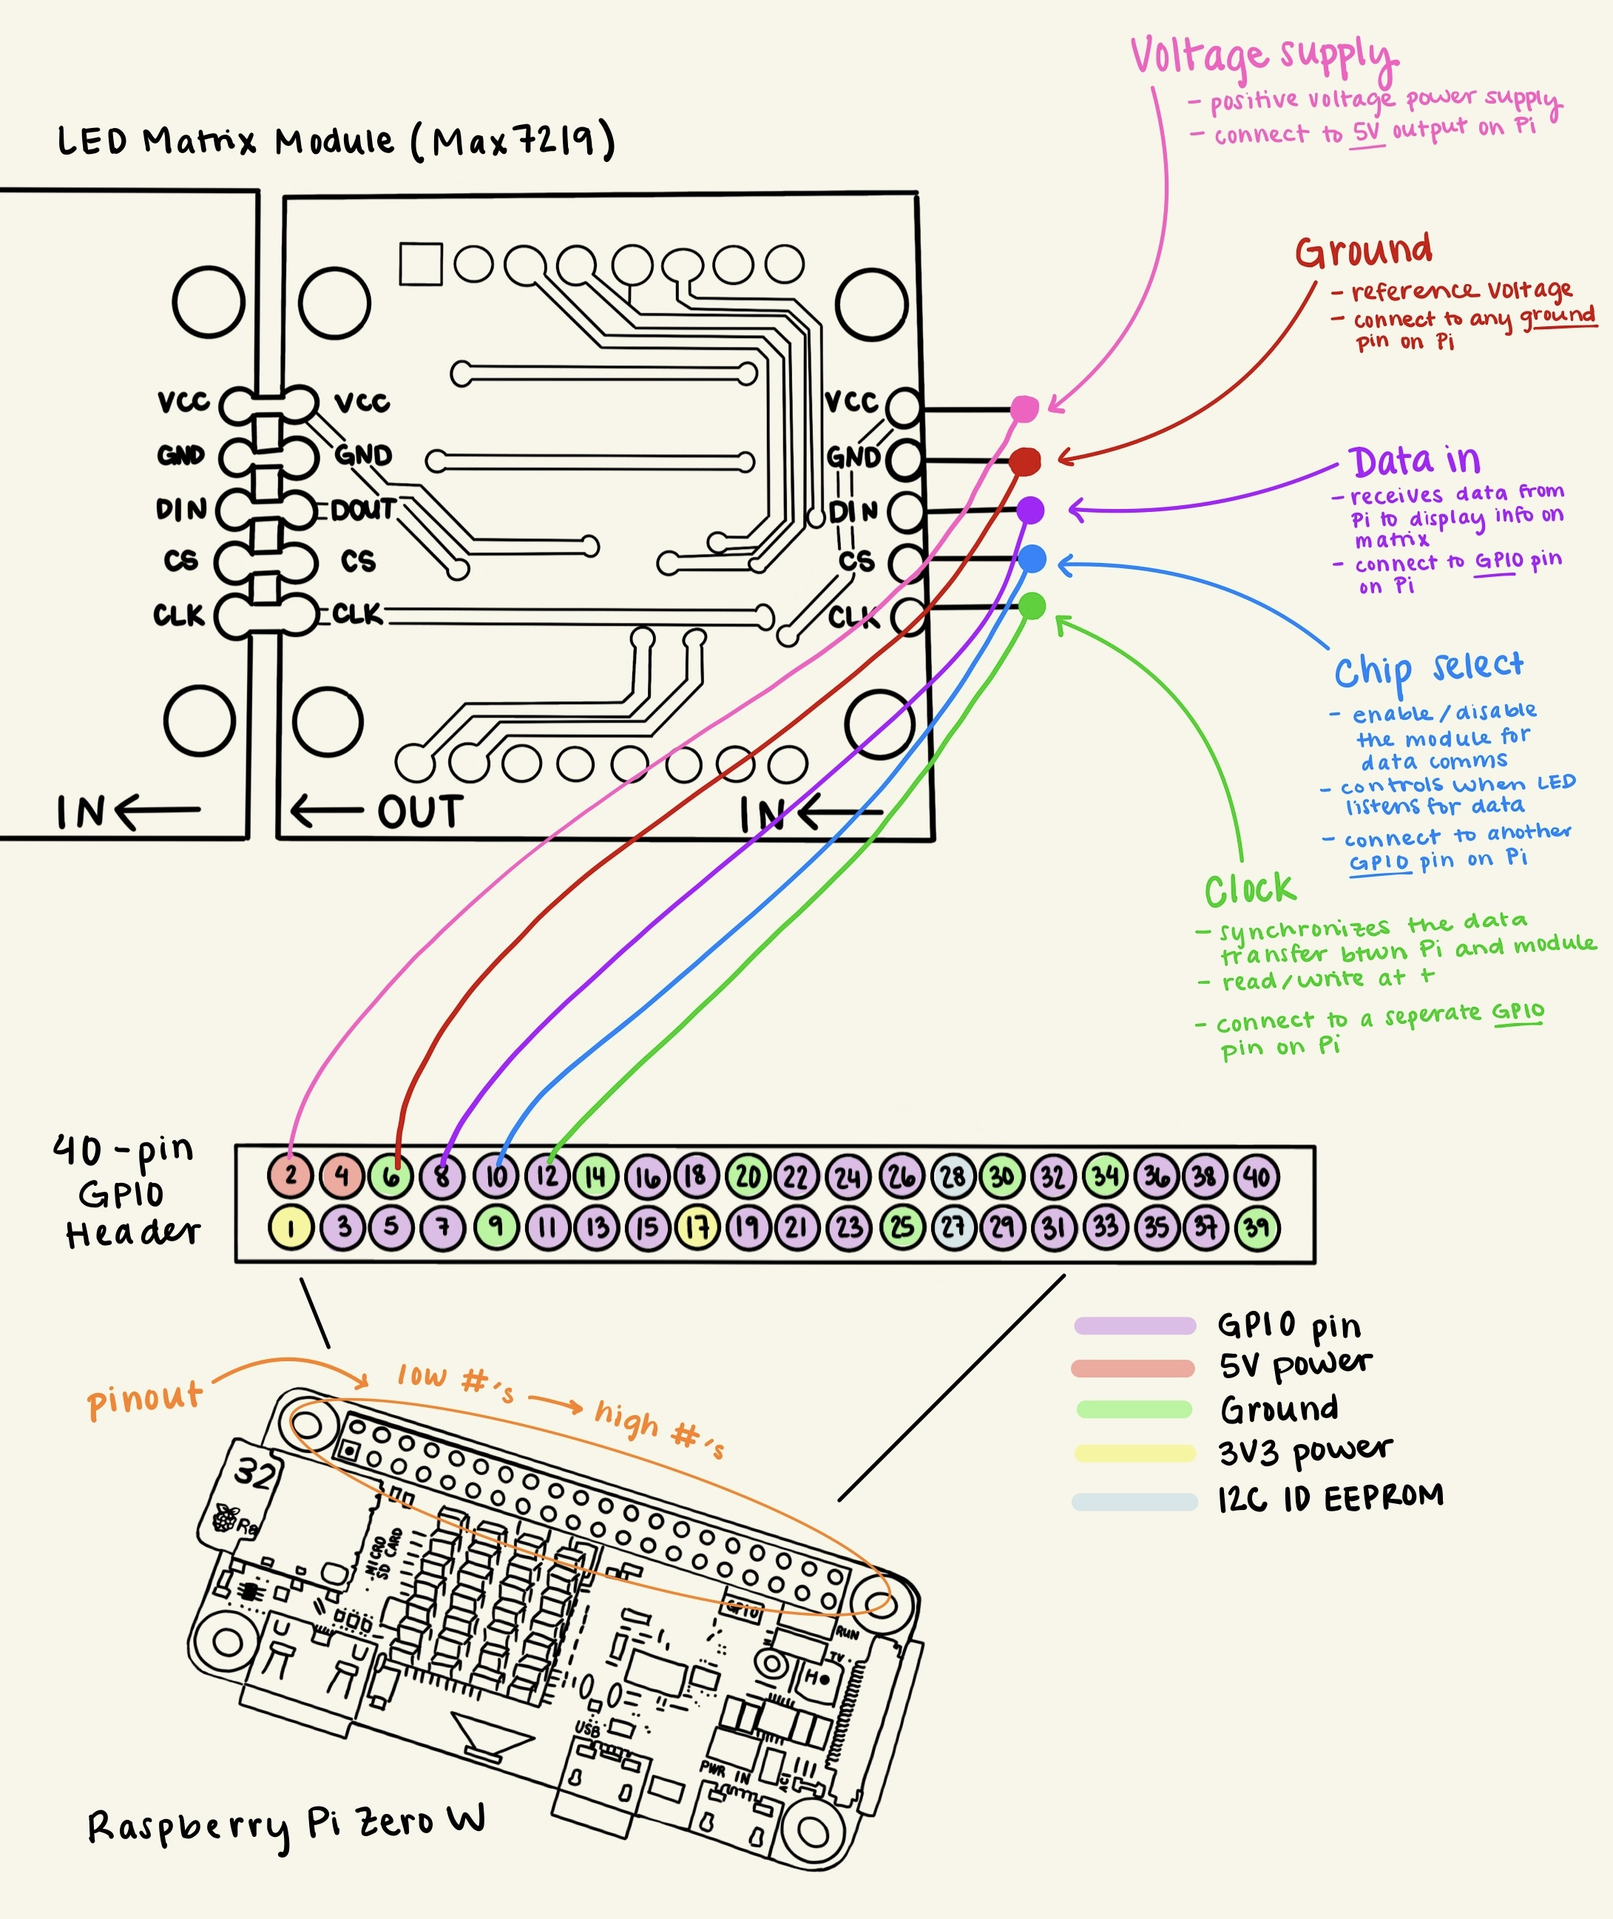
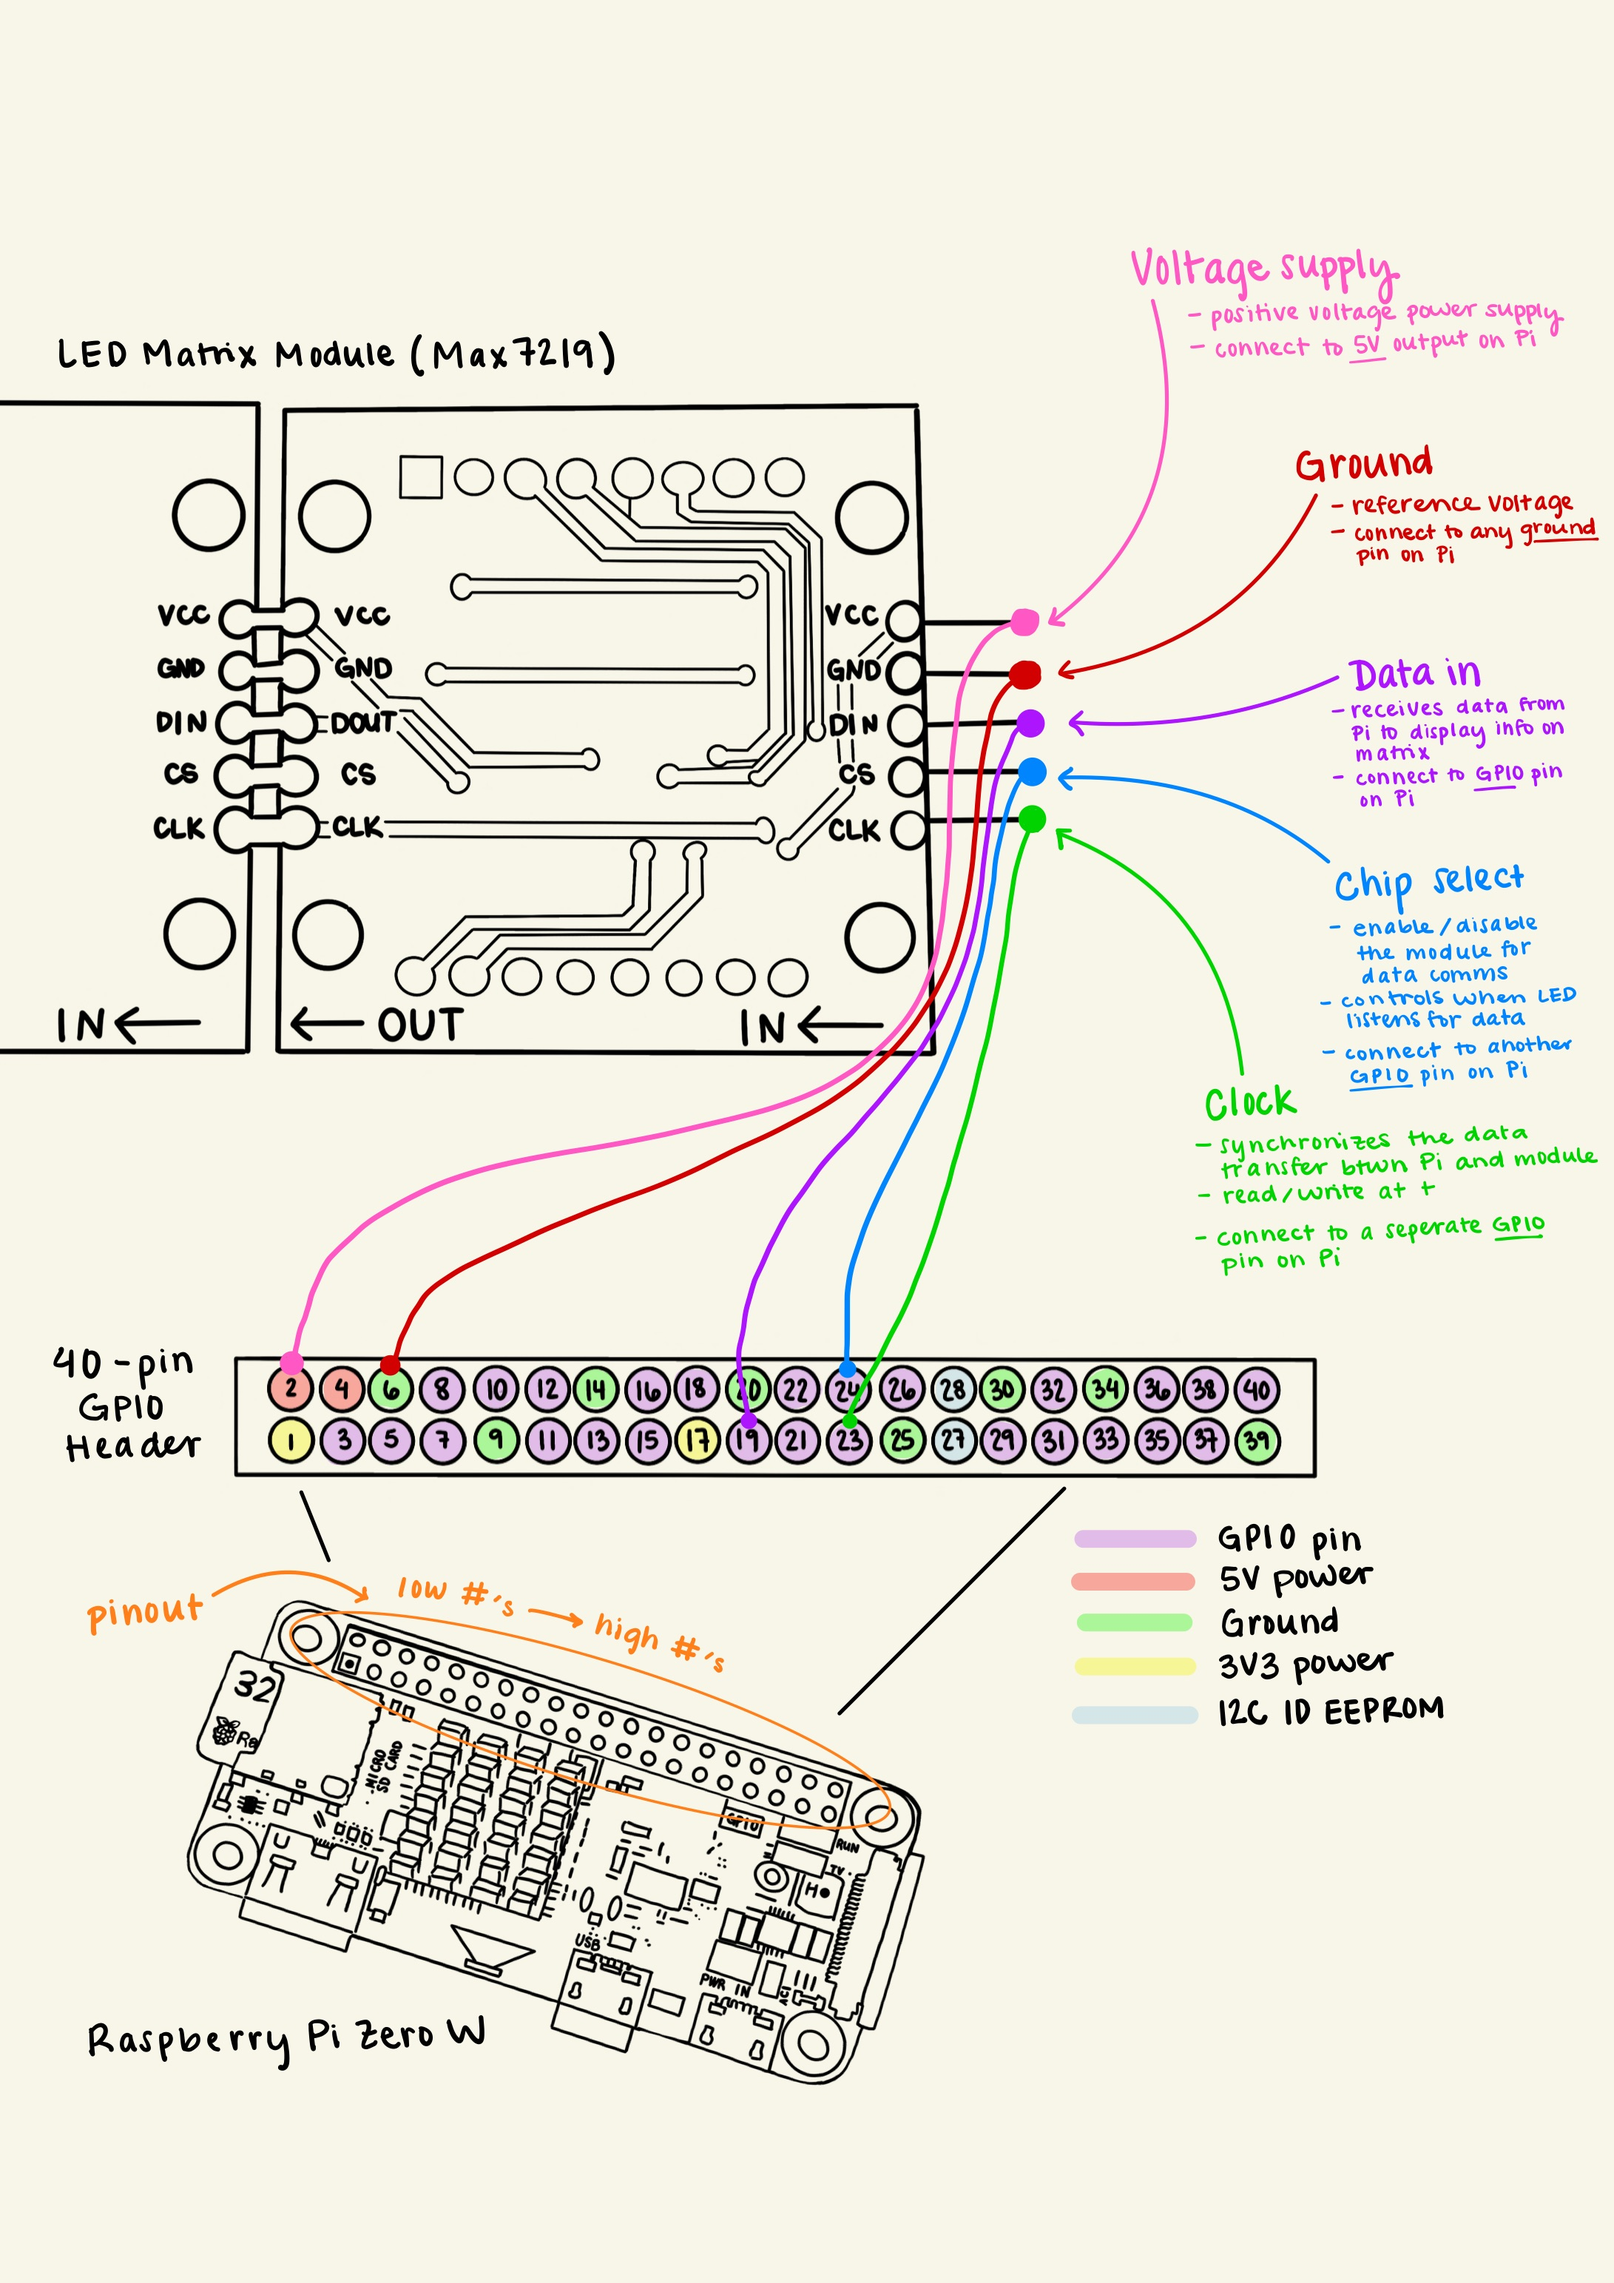
better wiring diagram

diff --git a/README.md b/README.md
@@ -119,7 +119,7 @@ scp path/to/your/local/.env pi@raspberry_pi_ip_address:/path/to/remote/directory
 
 Given this was my first time working with a Raspberry Pi, I did a little bit of research first before attempting to connect my Pi to the MAX7219 Dot Matrix Module.
 
-The MAX7219 Dot Matrix Module has 5 pins on the side labeled VCC, GND, DIN, CS, and CLK. Each pin has a purpose and needs to be wired to the respective pin on the Raspberry Pi to avoid short-circuiting it.
+The MAX7219 Dot Matrix Module has 5 pins on the side labeled VCC, GND, DIN, CS, and CLK. Each pin has a purpose and needs to be wired to the [correct pin on the Raspberry Pi](https://pinout.xyz/pinout/pin19_gpio10/) to avoid short-circuiting it.
 
 I made the following diagram to identify the wiring.
 ![](assets/pin_diagram.jpg)
